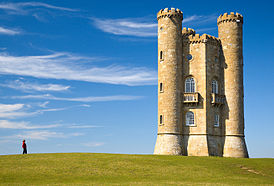
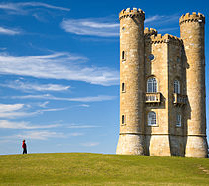
basic seam carving working

diff --git a/src/seamCarving.cpp b/src/seamCarving.cpp
@@ -35,15 +35,33 @@ void SeamCarving::carve(int num_seams) {
     }
 }
 
+bool SeamCarving::saveEnergyToFile(const std::string& filename) {
+	auto energy_map = computeEnergy();
+
+	unsigned char* energy = (unsigned char*) malloc(m_width*m_height*4*sizeof(unsigned char));
+
+	for (int y = 0; y < m_height; ++y)
+	for (int x = 0; x < m_width; ++x){
+        int idx = (y * m_width + x) * 4;
+		energy[idx+0] = energy_map[y][x];
+		energy[idx+1] = energy_map[y][x];
+		energy[idx+2] = energy_map[y][x];
+		energy[idx+3] = m_data[idx+3];
+	}
+
+    return stbi_write_png(filename.c_str(), m_width, m_height, 4, energy, m_width * 4);
+}
+
 vector<vector<double>> SeamCarving::computeEnergy() const {
     vector<vector<double>> energy(m_height, vector<double>(m_width, 0.0));
 
     // Compute energy for each pixel
-    for (int y = 1; y < m_height - 1; ++y) {
-        for (int x = 1; x < m_width - 1; ++x) {
+    for (int y = 0; y < m_height; ++y) {
+        for (int x = 0; x < m_width; ++x) {
             int idx = (y * m_width + x) * 4;
 
             double dx = 0.0;
+            if(x > 0 && x < m_width-1)
             for (int c = 0; c < 3; ++c) {
                 int idx_px_right = idx + 4 + c;
                 int idx_px_left = idx - 4 + c;
@@ -53,6 +71,7 @@ vector<vector<double>> SeamCarving::computeEnergy() const {
             }
 
             double dy = 0.0;
+            if(y > 0 && y < m_height-1)
             for (int c = 0; c < 3; ++c) {
                 int idx_px_up = (idx - (m_width * 4)) + c;
                 int idx_px_down = (idx + (m_width * 4)) + c;
@@ -100,11 +119,14 @@ vector<vector<int>> SeamCarving::findSeam(const vector<vector<double>>& energy) 
     double min_path_cost = std::numeric_limits<double>::max();
     int seam_end_x = -1;
     for (int x = 0; x < m_width; ++x) {
-        if (dp[m_height - 1][x] < min_path_cost) {
+    	// cout << dp[m_height - 1][x] << endl;
+    	if (dp[m_height - 1][x] < min_path_cost) {
             min_path_cost = dp[m_height - 1][x];
             seam_end_x = x;
         }
     }
+
+    // cout << seam_end_x << endl;
 
     vector<vector<int>> seam(m_height, vector<int>(2, 0));
 
@@ -114,6 +136,12 @@ vector<vector<int>> SeamCarving::findSeam(const vector<vector<double>>& energy) 
         seam[y][1] = x;
         x = dp_idx[y][x];
     }
+
+    // for(auto ss : seam){
+    // 	for(int sss : ss)
+    // 		cout << sss << " ";
+	//     cout << endl;
+    // }
 
     return seam;
 }

diff --git a/src/main.cpp b/src/main.cpp
@@ -193,6 +193,7 @@ int main(int, char**) {
     
         if (toCarve != currentlyCarved) {
             sc.carve(toCarve);
+            // sc.saveEnergyToFile("../images/energy.png");
             sc.saveCarvedImageToFile("../images/out.png");
             // load Image
             bool ret = LoadTextureFromFile("../images/out.png", &my_image_texture, &my_image_width, &my_image_height);

diff --git a/src/seamCarving.h b/src/seamCarving.h
@@ -17,6 +17,7 @@ public:
     int getCarvedWidth() const;
     int getCarvedHeight() const;
 
+    bool saveEnergyToFile(const std::string& filename);
     bool saveCarvedImageToFile(const std::string& filename) const;
 
 private:
